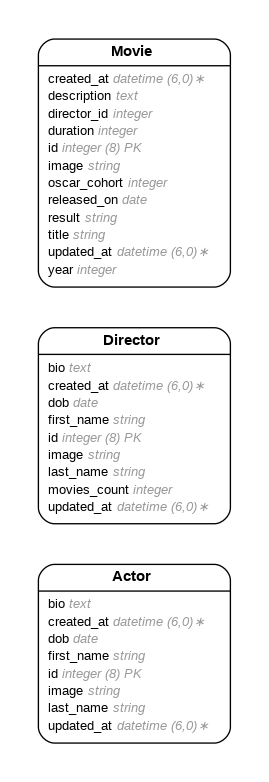
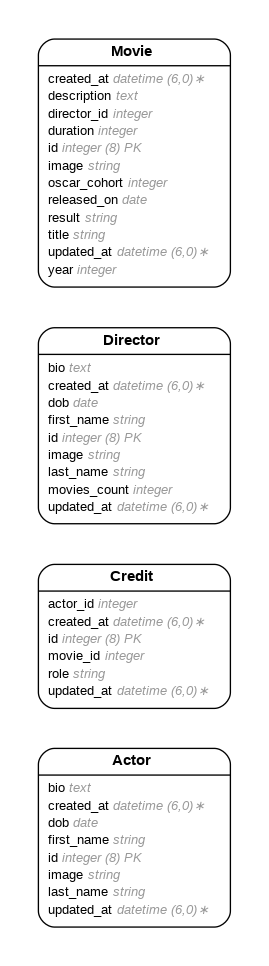
Generated Credit model and migration

Changed region(s): [[0.119, 0.0307, 0.8625, 0.9821], [0.8327, 0.9207, 0.8625, 0.9514]]

diff --git a/app/models/credit.rb b/app/models/credit.rb
@@ -1,0 +1,13 @@
+# == Schema Information
+#
+# Table name: credits
+#
+#  id         :bigint           not null, primary key
+#  role       :string
+#  created_at :datetime         not null
+#  updated_at :datetime         not null
+#  actor_id   :integer
+#  movie_id   :integer
+#
+class Credit < ApplicationRecord
+end

diff --git a/db/migrate/20250812080618_create_credits.rb b/db/migrate/20250812080618_create_credits.rb
@@ -1,0 +1,11 @@
+class CreateCredits < ActiveRecord::Migration[8.0]
+  def change
+    create_table :credits do |t|
+      t.string :role
+      t.integer :actor_id
+      t.integer :movie_id
+
+      t.timestamps
+    end
+  end
+end

diff --git a/db/schema.rb b/db/schema.rb
@@ -10,7 +10,7 @@
 #
 # It's strongly recommended that you check this file into your version control system.
 
-ActiveRecord::Schema[8.0].define(version: 2025_08_12_080425) do
+ActiveRecord::Schema[8.0].define(version: 2025_08_12_080618) do
   # These are extensions that must be enabled in order to support this database
   enable_extension "pg_catalog.plpgsql"
 
@@ -20,6 +20,14 @@ ActiveRecord::Schema[8.0].define(version: 2025_08_12_080425) do
     t.date "dob"
     t.text "bio"
     t.string "image"
+    t.datetime "created_at", null: false
+    t.datetime "updated_at", null: false
+  end
+
+  create_table "credits", force: :cascade do |t|
+    t.string "role"
+    t.integer "actor_id"
+    t.integer "movie_id"
     t.datetime "created_at", null: false
     t.datetime "updated_at", null: false
   end